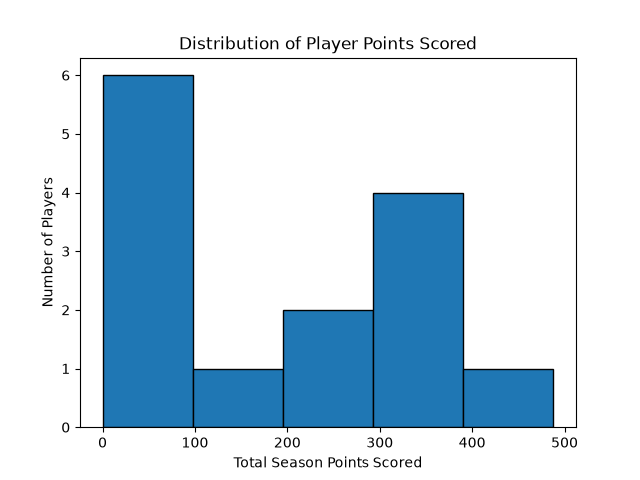
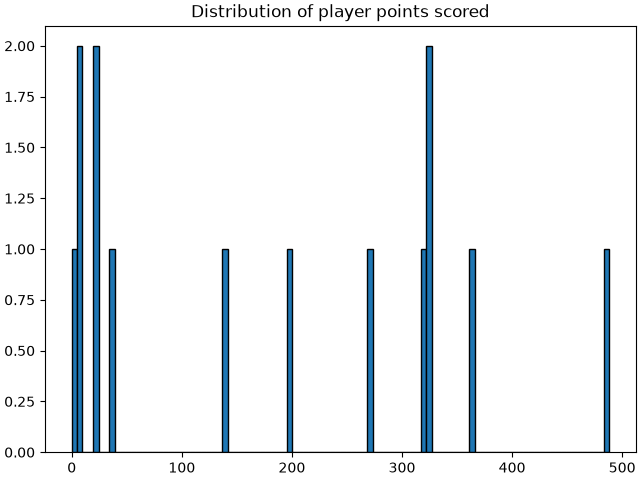
10/27 demo

diff --git a/VisualizationFun/F26_main.py b/VisualizationFun/F26_main.py
@@ -42,7 +42,30 @@ def line_chart_example(df,filename):
     # Example: Points scored by a basketball team across a season.
     # NOTE: Avoid connecting unrelated categories (e.g., player names)
     # because the lines imply continuity between observations.
-    pass
+    
+    # x = [1,2,3] day of the week
+    # y = [2,0,1] salads eaten
+    df = df.sort_values("Date")
+    x = df["Date"]
+    y_min = df["MP"]
+    y_pts = df["PTS"]
+    # print(x.head())
+    # print(y_min.head())
+    plt.figure(layout="constrained")
+
+    plt.plot(x, y_min, label="Minutes", c="blue", lw=2, marker="o")
+
+    # Add the second line
+    plt.plot(x, y_pts, label="Points", c="red", lw=2, marker="x", ls="--")
+
+    plt.title("Graham Ike: Points and Minutes by Game (24-25)")
+    plt.xlabel("Game Date")
+    plt.ylabel("Mins/Pts")
+    plt.legend()
+    plt.grid()
+
+    plt.savefig(filename)
+
 
 def scatter_chart_ex(df, filename):
     # SCATTER PLOT
@@ -53,8 +76,13 @@ def scatter_chart_ex(df, filename):
     # - Shows how individual observations are distributed.
     # Example: Minutes played vs. points scored for each player.
     # NOTE: Correlation does not necessarily imply causation.
-    pass
-
+    x = df["MIN"]
+    y = df["PTS"]
+    plt.figure(layout="constrained")
+    plt.scatter(x,y, c="blue", marker="^", s=100)
+    plt.grid(alpha=0.3)
+    # plt.show()
+    plt.savefig(filename)
 
 def bar_chart_ex(ser, filename):
     # BAR CHART
@@ -65,11 +93,23 @@ def bar_chart_ex(ser, filename):
     # - Horizontal bars are especially useful for long category names.
     # Example: Total points scored by each player or class.
     # NOTE: Bar charts should generally start their value axis at zero.
-    pass
+    
+    x = ser.index
+    y = ser
+
+    plt.figure(layout="constrained")
+    plt.bar(x,y, color=["red", "yellow", "blue"])
+    plt.savefig(filename)
 
 def points_per_min_chart(df, filename):
-    pass
 
+    df_clean = df[df["MIN"]>0].copy()
+    df_clean["PTS PER MIN"] = df_clean["PTS"]/ df_clean["MIN"]
+
+    df_clean_sort = df_clean.sort_values("PTS PER MIN")
+    plt.figure(layout="constrained")
+    plt.barh(df_clean_sort.index, df_clean_sort["PTS PER MIN"])
+    
     plt.savefig(filename)
 
 def pie_chart_ex(ser, filename):
@@ -81,8 +121,12 @@ def pie_chart_ex(ser, filename):
     # Example: Percentage of players in each class.
     # NOTE: All slices should represent parts of the same whole.
     # Bar charts are often better for comparing similar percentages.
-    pass
-
+    
+    labels = ser.index
+    y = ser
+    plt.figure(layout="constrained")
+    plt.pie(y, labels=labels, autopct="%1.1f%%")
+    plt.savefig(filename)
 def histogram_ex(x, filename):
     # HISTOGRAM
     # Best for: Showing the distribution of a numerical variable.
@@ -94,12 +138,36 @@ def histogram_ex(x, filename):
     # NOTE: Unlike bar charts, histograms group numerical values
     # into intervals rather than displaying separate categories.
     # The number of bins can significantly change the appearance.
-    pass
+    
+    plt.figure(layout="constrained")
+    plt.hist(x, bins=100, edgecolor="black")
+    plt.title("Distribution of player points scored")
+    plt.savefig(filename)
 
 
 def main():
     # data source: https://www.sports-reference.com/cbb/players/graham-ike-1/gamelog/2025
-    pass
+    df_ike = pd.read_csv("ike_game_stats.csv")
+    df_ike["Date"] = pd.to_datetime(df_ike["Date"], format= "%Y-%m-%d")
+    line_chart_example(df_ike, "figures/ike_line_chart.png")
+
+    df = pd.read_csv("bball.csv", index_col=0)
+    scatter_chart_ex(df, "figures/mins_vs_pts_scatter.png")
+
+    # Players per Class
+    class_counts_ser = df["CLASS"].value_counts()
+    print(class_counts_ser)
+    bar_chart_ex(class_counts_ser, "figures/class_counts_bar.png")
+
+    # Mean points per class
+    grouped_by_class = df.groupby("CLASS")
+    means_pts_ser = grouped_by_class["PTS"].mean()
+    bar_chart_ex(means_pts_ser, "figures/mean_pt_per_class_bar.png")
+
+    pie_chart_ex(class_counts_ser, "figures/pie_chart.png")
+    histogram_ex(df["PTS"], "figures/histogram.png")
+
+    points_per_min_chart(df, "figures/scoring_efficiency.png")
 
 main()
 # TASK 1: TOP 5 SCORERS (bball.csv)
